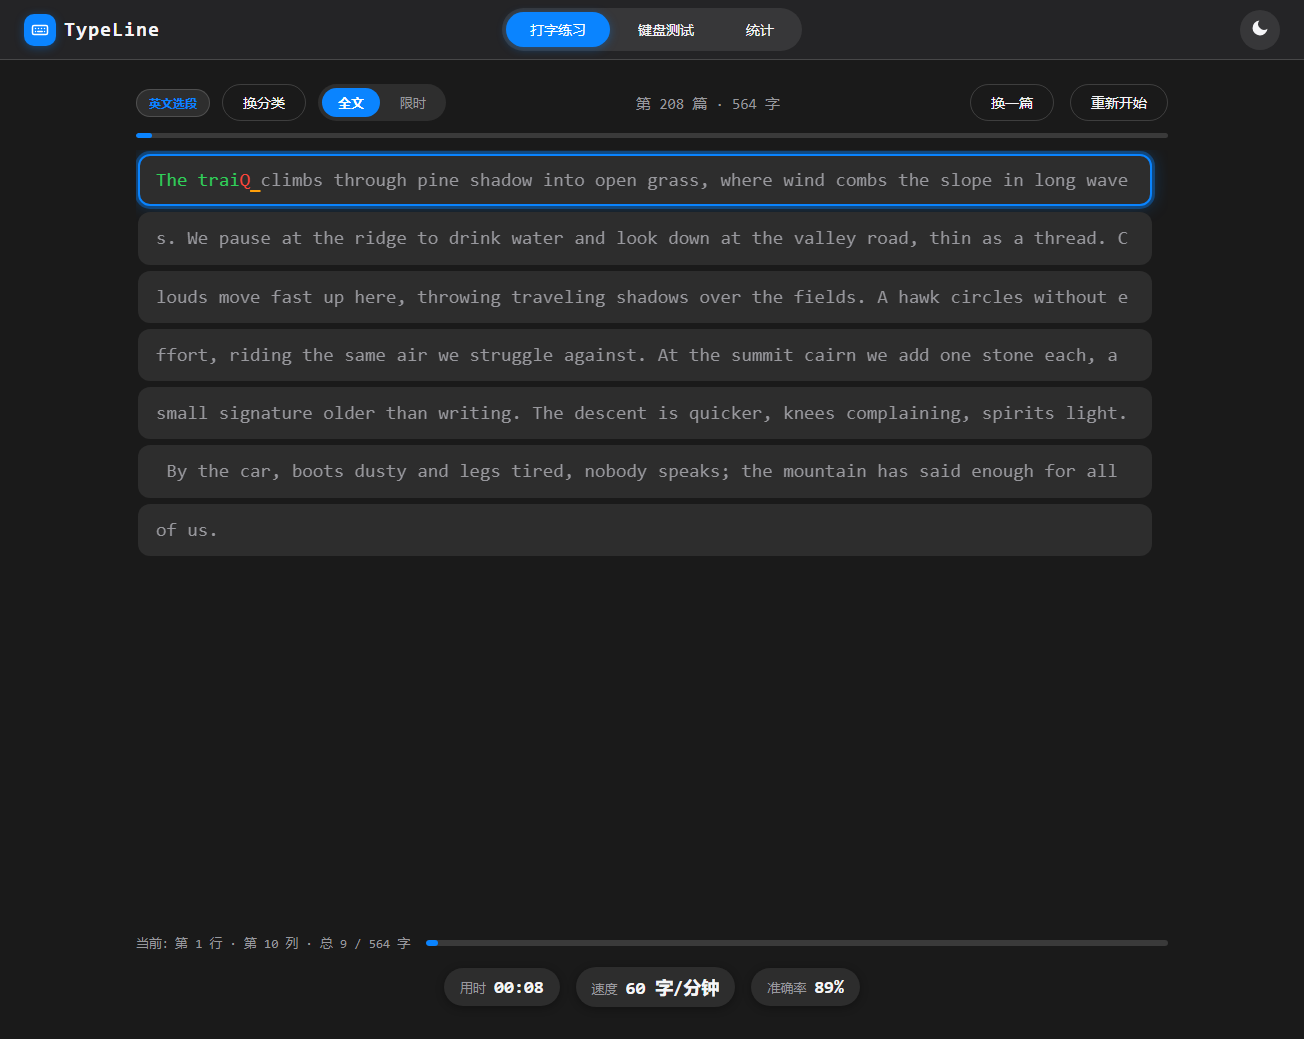
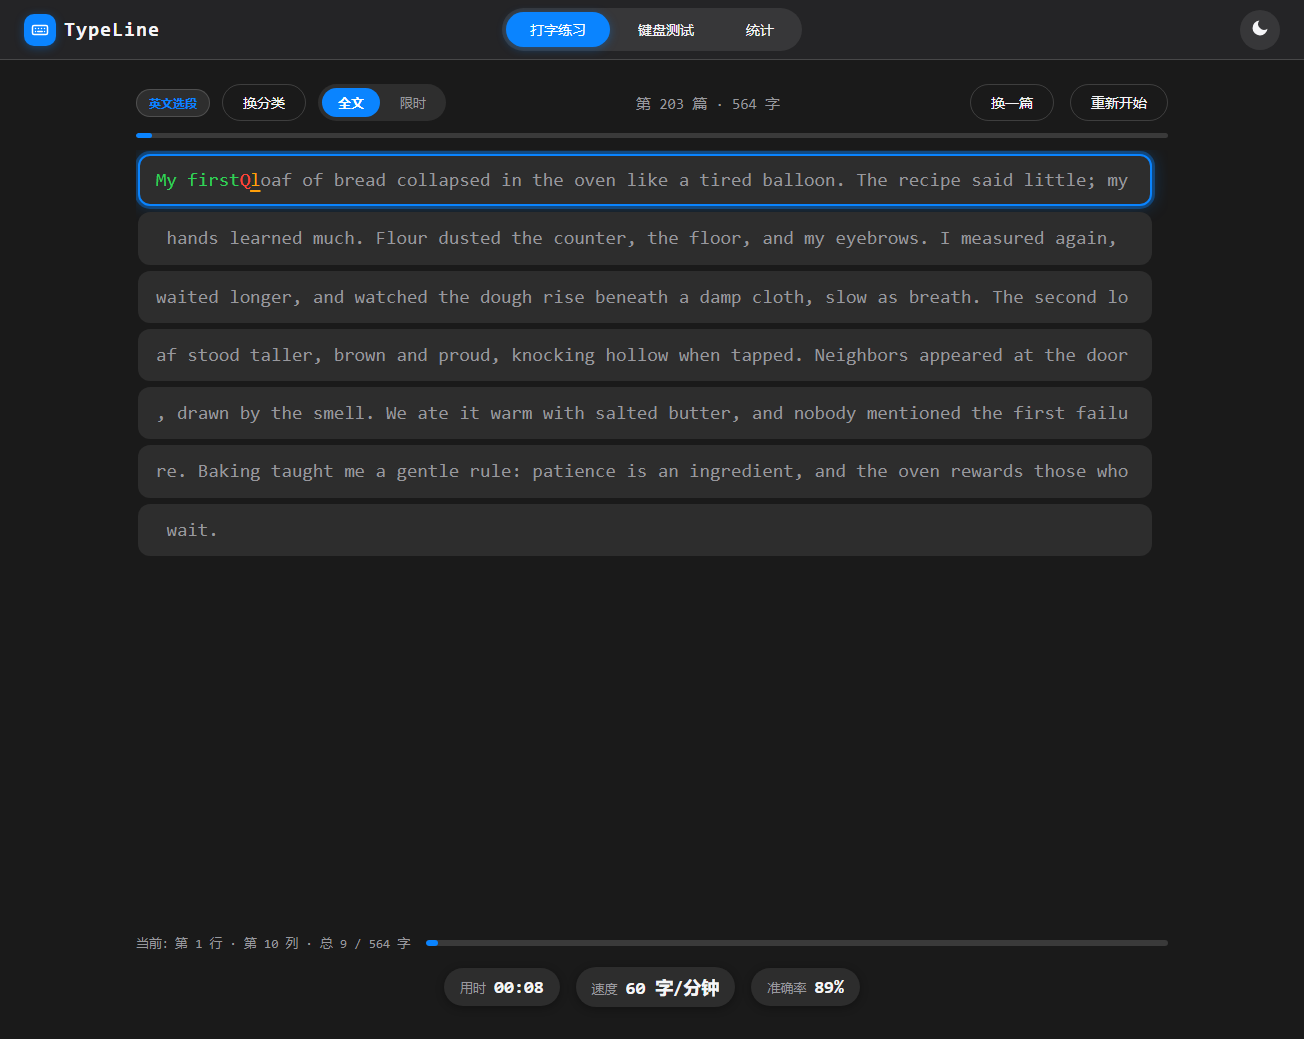
V3.1: remove input hint text entirely; IME composing float below active row; poetry rhythm polish (wider verse gap, dimmed pending rows, active row highlight)

diff --git a/assets/css/style.css b/assets/css/style.css
@@ -22,6 +22,7 @@
   --border: rgba(0, 0, 0, 0.14);
   --mask: rgba(20, 20, 22, 0.45);
   --accent-glow: rgba(10, 132, 255, 0.22);
+  --verse-active-bg: rgba(10, 132, 255, 0.08);   /* #37插单A：poetry 活动行淡底色（亮主题） */
   --key-bg: #ececef;
   --key-hi: rgba(255, 255, 255, 0.95);
   --key-edge: #c9c9ce;
@@ -53,6 +54,7 @@
   --border: rgba(255, 255, 255, 0.16);
   --mask: rgba(0, 0, 0, 0.60);
   --accent-glow: rgba(10, 132, 255, 0.35);
+  --verse-active-bg: rgba(10, 132, 255, 0.16);   /* #37插单A：poetry 活动行淡底色（暗主题） */
   --key-bg: #3a3a3c;
   --key-hi: rgba(255, 255, 255, 0.14);
   --key-edge: #232325;
@@ -316,7 +318,7 @@ button { font-family: inherit; }
   margin-bottom: 6px;
   cursor: text;
   transition: border-color 0.2s ease, box-shadow 0.2s ease, background-color 0.25s ease;
-  animation: tp-rise 0.4s ease both;
+  animation: tp-rise 0.4s ease backwards;   /* #37A：fill 改 backwards（原 both 结束后钉住 opacity=1 会覆盖 .row-dim 淡化） */
   animation-delay: calc(var(--i) * 40ms);
 }
 
@@ -402,12 +404,6 @@ button { font-family: inherit; }
   pointer-events: none;
 }
 
-.row-hint {
-  color: var(--text-secondary);
-  font-size: 15px;
-  margin-left: 6px;   /* 为输入行起始光标让位（任务 #20B） */
-}
-
 .row-input-empty { flex: 1; height: 0; }
 
 .row-input-empty.dashed { border-top: 1px dashed var(--border); opacity: 0.7; }
@@ -458,23 +454,24 @@ button { font-family: inherit; }
    mirror 仅测 top/width 折行点，无需居中（不影响行切分） */
 .row-source.verse-centered { text-align: center; }
 
+/* #37 插单 A：诗行节奏美化（仅 poetry，.prof-verse 门控）：
+   ① 行间隔在现行 6px 基础上 +6px（=12px）；② 未输入行 opacity 0.55，输入或成为活动行后恢复 1；
+   ③ 活动行淡底色用主题变量 --verse-active-bg（暗/亮分别定义，禁硬编码色） */
+.prof-verse .row {
+  margin-bottom: 12px;
+  transition: border-color 0.2s ease, box-shadow 0.2s ease, background-color 0.25s ease, opacity 0.25s ease;
+}
+.prof-verse .row.row-dim { opacity: 0.55; }
+.prof-verse .row.active { background: var(--verse-active-bg); }
+
 /* #35 插单 B：measured 输入行改 block 排版，与原文行同排版上下文——
    flex 匿名项对空格/尾随空白处理与 inline 流不一致，导致两行词距偏移；
    block 化后 .word margin/空格宽/折行完全同源（.caret 绝对定位不受影响，
    .row-input-empty.dashed 在 block 下仍占满整行） */
 .row-input-measured { display: block; }
 
-/* single 覆盖行：行卡仅原文行；hint/composing 为行内绝对 overlay */
+/* single 覆盖行：行卡仅原文行；composing 浮层行内绝对定位（#37：hint 提示文字已全删） */
 .row-single { position: relative; }
-.hint-overlay {
-  position: absolute;
-  left: 16px;
-  top: 8px;
-  color: var(--text-secondary);
-  font-size: 15px;
-  line-height: 1.7;
-  pointer-events: none;
-}
 /* single 当前位 = 下划线光标态 */
 .prof-single .char.cursor {
   text-decoration-line: underline;
@@ -483,11 +480,10 @@ button { font-family: inherit; }
   text-decoration-color: var(--cursor);
   text-underline-offset: 4px;
 }
-/* IME 组合预览浮层（single）：JS 锚当前字符 rect（left=字符 left、top=字符行底），
-   translateY(-100%) 使浮层 bottom 对齐行底；橙色下划线风格沿用 .composing */
+/* IME 组合预览浮层（single，#37）：JS 锚 left=当前字符左缘、top=活动行 rect.bottom+2，
+   行下方悬浮不覆盖原文（移除 translateY）；橙色下划线风格沿用 .composing */
 .composing-float {
   position: absolute;
-  transform: translateY(-100%);
   color: var(--cursor);
   text-decoration-line: underline;
   text-decoration-style: solid;
@@ -504,7 +500,6 @@ button { font-family: inherit; }
   .prof-measured .row-input { font-size: 15px; }
   .prof-single .row-source,
   .prof-single .row-mirror { font-size: 17px; }
-  .hint-overlay { left: 12px; }
 }
 
 /* 隐藏 input：承接焦点 / 键盘 / IME（6.1）；
@@ -812,13 +807,12 @@ button { font-family: inherit; }
   :root { --ch-w: 17px; }
   .row-source, .row-mirror { font-size: 17px; }
   .row-input { font-size: 15px; }
-  /* #34 回归修复：窄屏字号阶梯 17/15 后，真机（CJK 字体度量差异）下 hint 换行两行 /
+  /* #34 回归修复（#37 收敛）：窄屏字号阶梯 17/15 后，真机（CJK 字体度量差异）下
      组合下划线贴底时行卡底部 padding 不足，输入行视觉溢出行卡背景压到下一行卡。
-     断点显式覆盖新行盒高度：行卡底 padding +2px、输入行 min-height 余量 +2px、
-     hint 同节奏 line-height 且允许任意位换行 */
+     断点显式覆盖新行盒高度：行卡底 padding +2px、输入行 min-height 余量 +2px
+     （hint 提示文字已全删，原 .row-hint 行高/换行规则一并移除） */
   .row { padding: 8px 12px 10px; margin-bottom: 6px; }
   .row-input { margin-top: 2px; min-height: calc(1.7em + 2px); }
-  .row-hint { line-height: 1.7; overflow-wrap: anywhere; }
   .rows { min-height: 240px; }
   .hud { gap: 8px; }
   .pos-indicator { gap: 8px; }

diff --git a/assets/js/components/TypingPractice.js b/assets/js/components/TypingPractice.js
@@ -26,7 +26,7 @@
   window.TP_TypingPractice = {
     name: "TypingPractice",
     template: `
-<div class="tp" :class="'prof-' + profile.slot">
+<div class="tp" :class="['prof-' + profile.slot, { 'prof-verse': profile.lineBreak === 'verse' }]">
   <!-- #35 渲染档案镜像：chunk = verse-block / word / flat-run；字符 span 统一 .mchar，
        槽类由 profile 决定（fixed=ch-slot 定宽 / measured|single=mw-char 自然宽） -->
   <div ref="mirrorRef" class="row-mirror line-text" aria-hidden="true"><span
@@ -73,10 +73,10 @@
       :ref="function (el) { setRowRef(ri, el); }"
       :style="{ '--i': ri }"
       class="row"
-      :class="{ active: ri === activeRowIndex, 'row-single': profile.slot === 'single' }"
+      :class="{ active: ri === activeRowIndex, 'row-single': profile.slot === 'single', 'row-dim': profile.lineBreak === 'verse' && ri !== activeRowIndex && pos <= row.start }"
     >
       <!-- #35 单行覆盖模式（english/poetry）：单行字符流三态 + 错位置替换显示用户错字符；
-           hint 改行内 overlay（该行 0 输入时显示、输入即消失）；IME 组合预览浮层锚当前字符 -->
+           IME 组合预览浮层行下方悬浮（#37：不覆盖原文）；提示文字已全删（#37） -->
       <template v-if="profile.slot === 'single'">
         <div class="row-source line-text" :class="{ 'verse-centered': profile.lineBreak === 'verse' }"><span
             v-for="(ch, ci) in row.chars"
@@ -84,10 +84,6 @@
             class="char mw-char"
             :class="charStates[row.start + ci]"
           >{{ overlayChar(row.start + ci, ch) }}</span></div>
-        <span
-          v-if="ri === activeRowIndex && pos === row.start && !done"
-          class="hint-overlay"
-        >点击此处开始输入，支持中文输入法</span>
         <span
           v-if="ri === activeRowIndex && !done && composingText"
           class="composing-float"
@@ -116,8 +112,7 @@
              词距/空格宽/折行完全同源（修复 flex 匿名项导致的两行偏移，#35 插单 B） -->
         <div class="row-input" :class="{ 'row-input-measured': profile.slot === 'measured' }">
           <span v-if="ri === activeRowIndex && !done" class="caret" aria-hidden="true"></span>
-          <span v-if="ri === activeRowIndex && pos === 0 && !done && !composingText" class="row-hint">点击此处开始输入，支持中文输入法</span>
-          <template v-else-if="inputSlice(row).length">
+          <template v-if="inputSlice(row).length">
             <template v-if="profile.slot === 'measured'">
               <span
                 v-for="(grp, gi) in groupRow(row)"
@@ -719,11 +714,11 @@
           top = cr.bottom - rowsRect.top + box.scrollTop;
           var fl = rowEl.querySelector('.composing-float');
           if (fl) {
-            /* 绝对定位包含块=padding box（.row 有 2px 边框），
-               需减去 clientLeft/clientTop（边框宽）才能锚到字符真实 rect */
+            /* #37：浮层改行下方悬浮（不覆盖原文）：left=当前字符左缘、top=活动行 rect.bottom+2；
+               绝对定位包含块=padding box（.row 有 2px 边框），需扣 clientLeft/clientTop */
             var rowRect = rowEl.getBoundingClientRect();
             fl.style.left = (cr.left - rowRect.left - rowEl.clientLeft) + 'px';
-            fl.style.top = (cr.bottom - rowRect.top - rowEl.clientTop) + 'px';
+            fl.style.top = (rowRect.bottom - rowRect.top - rowEl.clientTop + 2) + 'px';
           }
         } else {
           var inLine = rowEl.querySelector('.row-input');
